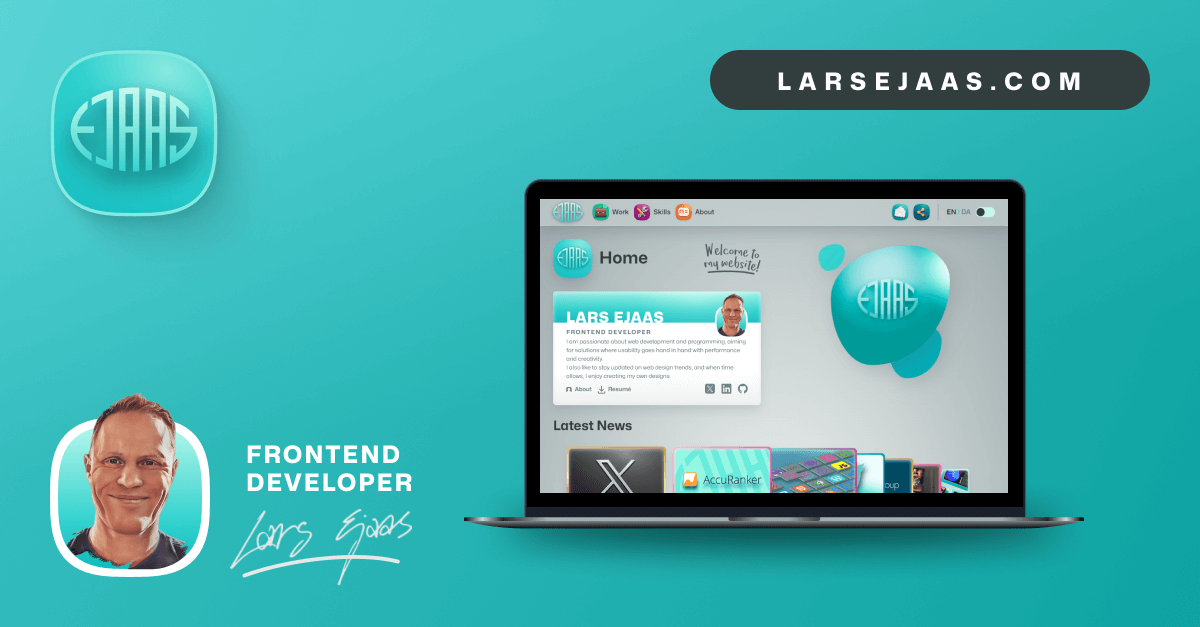
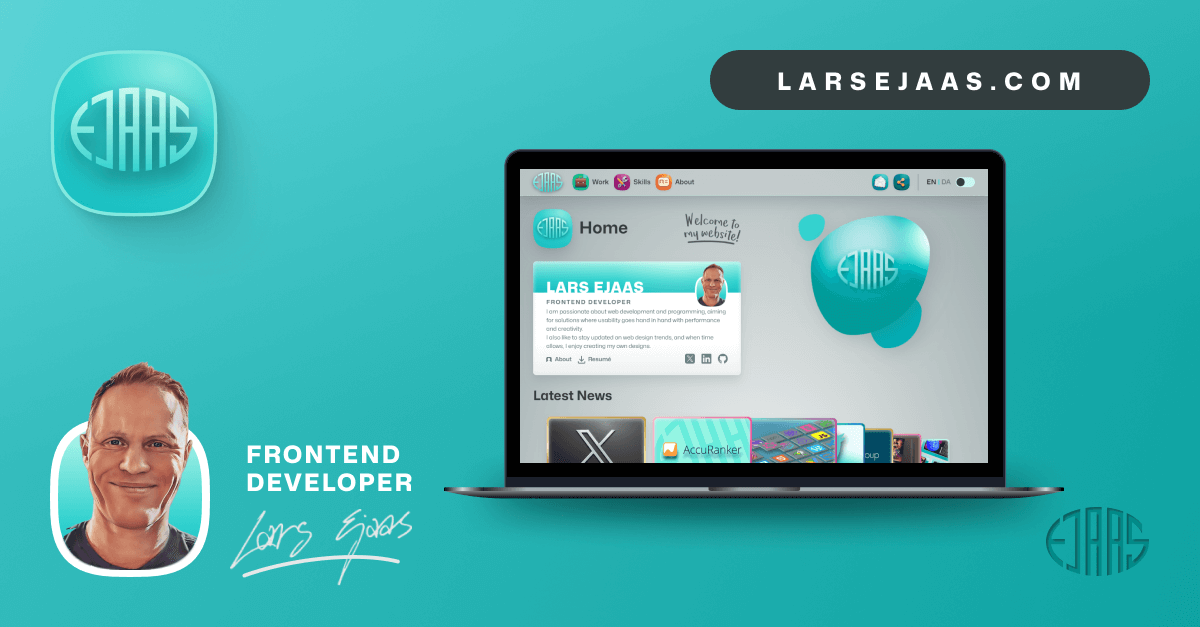
add updated some-images and add bluesky

Changed region(s): [[0.37, 0.2121, 0.9558, 0.9394], [0.0308, 0.5758, 0.185, 0.9091]]

diff --git a/src/content/newsItems.ts b/src/content/newsItems.ts
@@ -25,6 +25,7 @@ const newsFeed = [
   'x',
   'v2',
   'friggTech',
+  'bluesky',
 ] as const;
 
 /**
@@ -69,7 +70,7 @@ const newsObject = {
       date: '1. marts 2021',
       imageSrc: 'hand_holding_letter.jpg',
       imageAlt: 'Hånd der holder et brev',
-      href: '/da/kontakt/',
+      href: '/da/arkiv/kontakt/',
       outline: '4',
     },
     makingOf: {
@@ -154,12 +155,23 @@ const newsObject = {
     friggTech: {
       title: 'Nyt job hos Frigg Tech',
       description:
-        'Jeg er begejstret for at offentliggøre at jeg er starter hos Frigg Tech som frontend-udvikler pr. 1. januar.',
+        'Jeg er begejstret for at offentliggøre at jeg startede i nyt job hos Frigg Tech som frontend-udvikler pr. 1. januar.',
       date: '1. januar 2025',
       imageSrc: 'frigg_tech.png',
       imageAlt: 'Lysegrønt Frigg Tech logo på en mørkeblå baggrund',
       href: '/work/#friggTech',
       outline: '4',
+    },
+    bluesky: {
+      title: 'Nu kan du finde mig på Bluesky',
+      description:
+        'Mange techies er for nylig skiftet til Bluesky, så jeg tænkte, at jeg ville se, hvad al den begejstring handler om.\n\nJeg ville elske, hvis du ville komme og være med!',
+      date: '20. januar 2025',
+      imageSrc: 'bluesky.png',
+      imageAlt:
+        'Bluesky sommerfugle-logo afbilledet på en telefon foran en skyfyldt blå himmel',
+      href: 'https://bsky.app/profile/larsejaas.bsky.social',
+      outline: 'gold',
     },
   },
   en: {
@@ -189,7 +201,7 @@ const newsObject = {
       date: 'March 1st, 2021',
       imageSrc: 'hand_holding_letter.jpg',
       imageAlt: 'Hand holding a letter',
-      href: '/contact/',
+      href: '/archive/contact/',
       outline: '4',
     },
     makingOf: {
@@ -274,12 +286,23 @@ const newsObject = {
     friggTech: {
       title: 'New job at Frigg Tech',
       description:
-        'I am thrilled to announce that I have joined Frigg Tech as a frontend developer, starting January 1st.',
+        'I am thrilled to announce that I have joined Frigg Tech as a frontend developer January 1st.',
       date: 'January 1st, 2025',
       imageSrc: 'frigg_tech.png',
       imageAlt: 'Light green Frigg Tech logo on dark blue background',
       href: '/work/#friggTech',
       outline: '4',
+    },
+    bluesky: {
+      title: 'I am now on Bluesky',
+      description:
+        'Lots of techies have recently switched to Bluesky, so I thought I’d see what all the fuss is about.\n\nI’d love it if you’d come and join me!',
+      date: 'January 20th, 2025',
+      imageSrc: 'bluesky.png',
+      imageAlt:
+        'Bluesky butterfly logo pictured on a phone in front of a blue sky',
+      href: 'https://bsky.app/profile/larsejaas.bsky.social',
+      outline: '2',
     },
   },
 } as const satisfies NewsItems;

diff --git a/src/i18n/translations/navigation.ts b/src/i18n/translations/navigation.ts
@@ -25,6 +25,7 @@ export const navigation = {
     all_rights: 'All rights',
     reserved: 'reserved',
     linkedin_label: 'Visit my LinkedIn profile',
+    bluesky_label: 'Visit my Bluesky profile',
     x_label: 'Follow me on X',
     github_label: 'Visit my GitHub profile',
     not_found_title: '404 - Page not found',
@@ -61,6 +62,7 @@ export const navigation = {
     all_rights: 'Alle rettigheder',
     reserved: 'forbeholdes',
     linkedin_label: 'Besøg min LinkedIn profil',
+    bluesky_label: 'Besøg min Bluesky profil',
     x_label: 'Følg mig på X',
     github_label: 'Besøg min GitHub profil',
     not_found_title: '404 - Siden blev ikke fundet',

diff --git a/src/layouts/global.css b/src/layouts/global.css
@@ -142,9 +142,9 @@
     --card-background: linear-gradient(
         transparent,
         transparent calc(100% - 80px),
-        light-dark(var(--system-light-300), var(--system-light-200))
+        light-dark(var(--system-light-400), var(--system-light-200))
       ),
-      light-dark(var(--system-light-100), var(--system-light-300));
+      light-dark(var(--system-light-200), var(--system-light-300));
     --stacks-balloon-shadow: 10px 10px 25px var(--system-shadow-7);
     --border-radius-sm: 4px;
     --border-radius-md: 8px;

diff --git a/src/components/carousel/carousel.module.css b/src/components/carousel/carousel.module.css
@@ -211,6 +211,7 @@
     content: '';
     position: absolute;
     inset: 0;
+    z-index: 1;
     background: radial-gradient(
       circle at calc(var(--x) * 1px) calc(var(--y) * 1px),
       light-dark(hsl(0 0% 100% / 0.36), hsl(0 0% 100% / 0.24)),

diff --git a/src/components/socialLinks/socialLinks.module.css b/src/components/socialLinks/socialLinks.module.css
@@ -1,6 +1,7 @@
 & .socialLinks {
   display: flex;
   gap: 16px;
+  margin-left: auto;
   &[data-alt-colors] {
     & svg {
       color: light-dark(var(--system-dark-100), var(--system-dark-200));

diff --git a/src/layouts/home.module.css b/src/layouts/home.module.css
@@ -24,6 +24,9 @@
   display: flex;
   align-items: center;
   justify-content: space-between;
+  flex-wrap: wrap;
+  row-gap: 8px;
+  column-gap: 16px;
 }
 
 .actionEntries {
